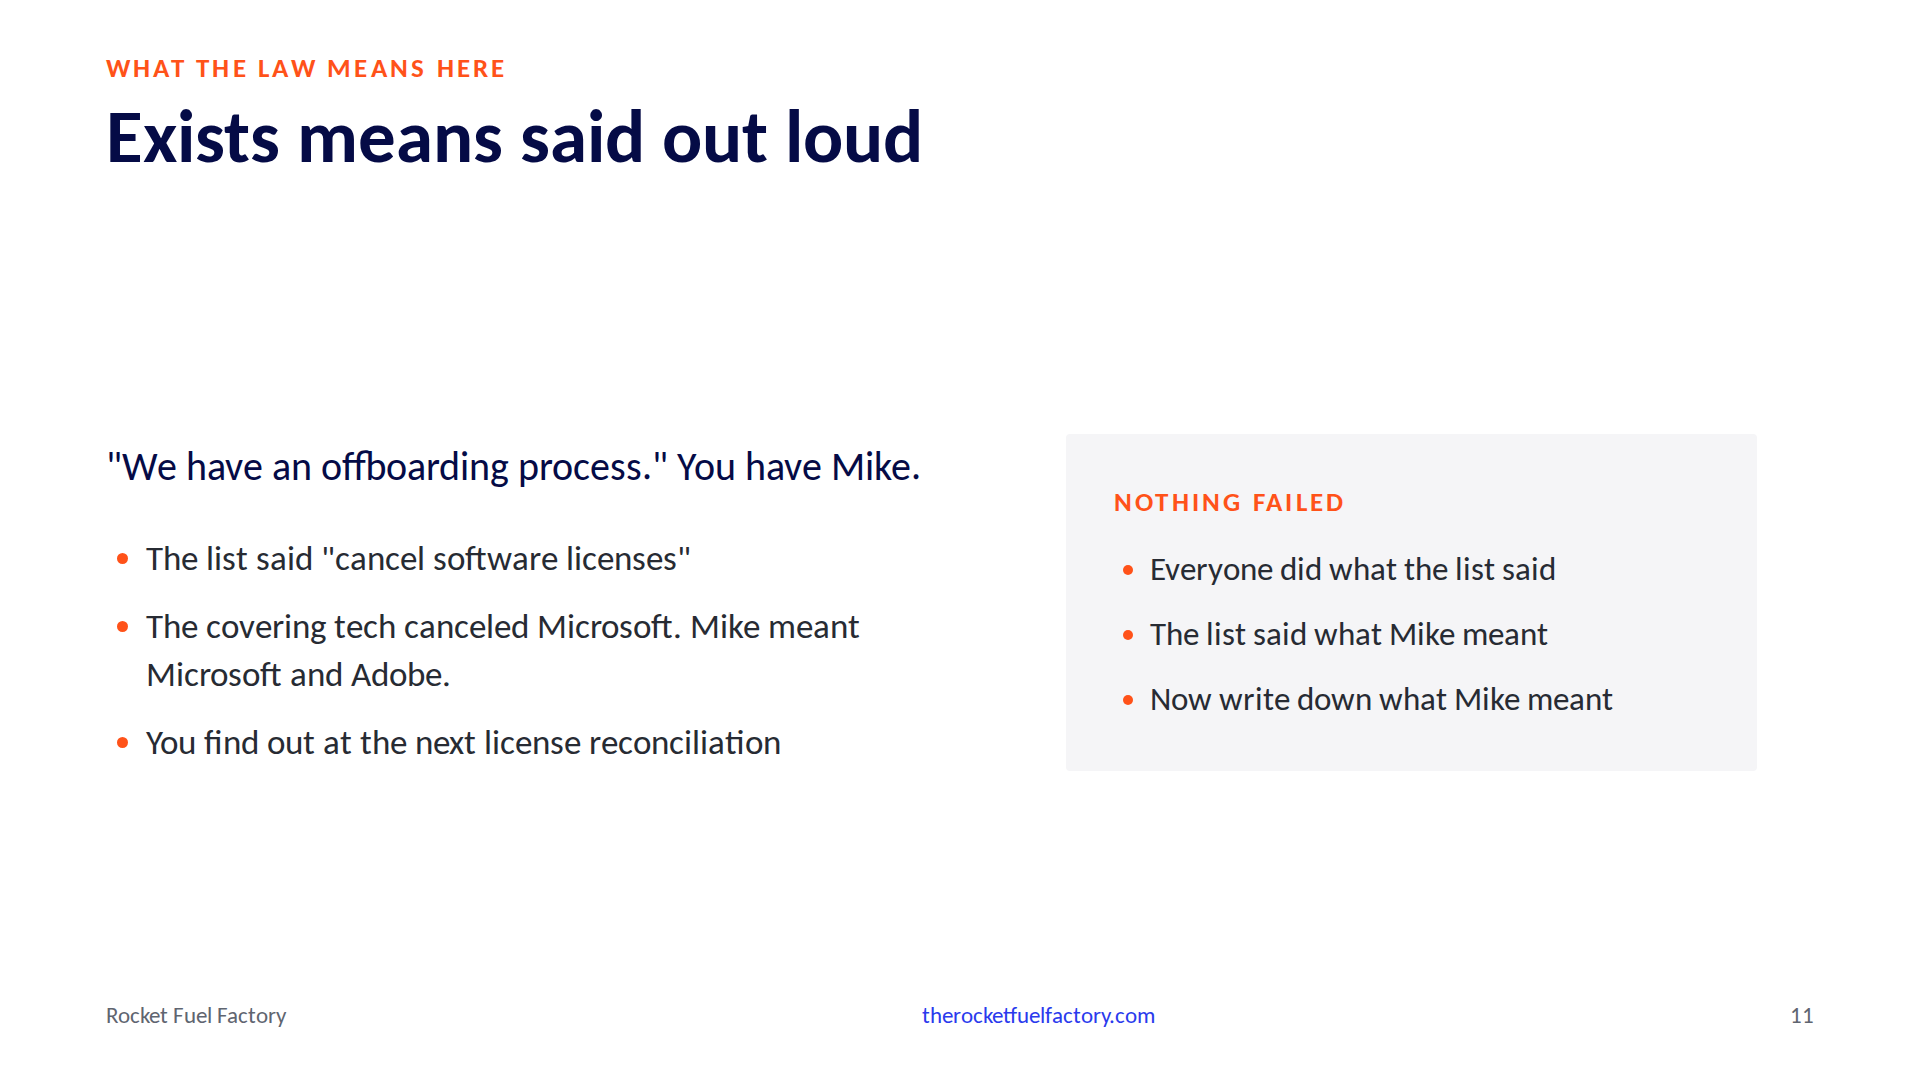
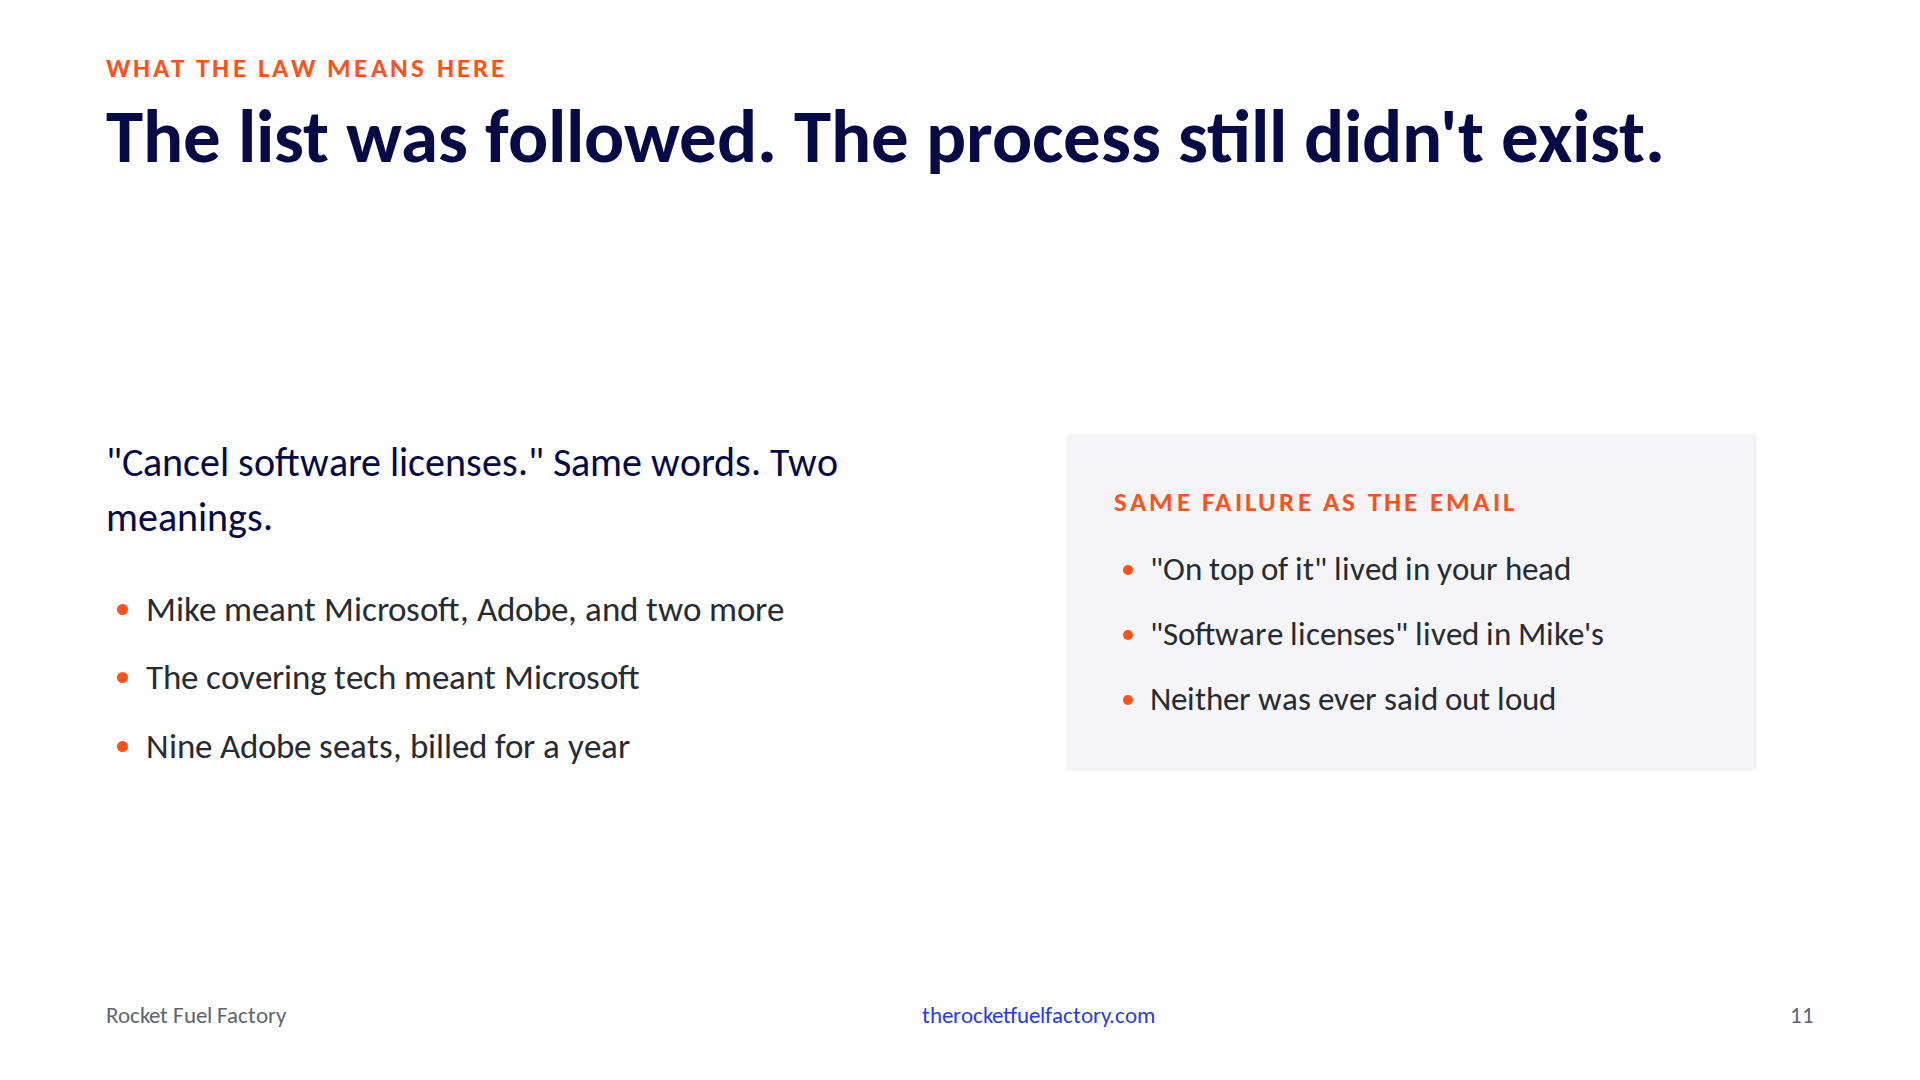
Slide 11: the list was followed, the process still didn't exist; card ties it to the email

diff --git a/src/data/notes.js b/src/data/notes.js
@@ -14,7 +14,7 @@ export const notes = {
   'demo-strong': 'Target 8:30. Loud punchline: same tool, same task, the only thing that changed was how you asked. Under 150 words, Dr. Patel named, forwardable. Then the bridge, one breath, before the click. That is communication: hand over the judgment calls, not just the facts. Now take it to something bigger than an email. When you say we onboard new users, what you have is a ticket with the facts. The judgment calls are in someone\'s head. You just saw what happens when you hand that to a machine. Click.',
   'demo-ask': 'Target 5:30. Bridge, said before the click: this is where most people get frustrated and stop. Do not stop, and do not just ask it to try again. Ask it how you should have asked. Show the answer. Five things it wanted up front: who is reading, what on top of it was supposed to mean, whether the Q2 detail was a feature or a liability, tone, any business ask. Then read the punchline off the slide, slowly, and do not editorialize: I put it in, that is a 50/50 guess I should not have made silently. It knows. It just described abdication better than I did. Try this tonight on the last answer that disappointed you.',
   'aharons-law': 'Target 9:30. SLOW. Say the law, credit Aharon, two full seconds of silence. Then: I have been quoting this for years and it means something different every time. Here is what it means today. Click.',
-  'exists-means-said-out-loud': 'Target 10:00. The shop example, no AI in it. You say we have an offboarding process. It is a checklist, and it is Mike\'s. Mike is on vacation. A tech covers an offboarding and follows the list. One line says cancel software licenses. He cancels the Microsoft licenses, because that is what software licenses means to him. A year later someone reconciles the bill and finds nine former employees still holding Adobe seats. Say Adobe and let the room groan, do not pile on. Nobody skipped a step. The line was on the list. It said cancel software licenses, and to Mike that meant Microsoft, Adobe, and the two other tools that client has that you have forgotten about, because Mike set them up. The list said what Mike meant. It did not say what Mike knew. That is what does not exist means, and it is the same failure as we are on top of it twenty minutes ago: a phrase that carried a full definition in the writer\'s head and a smaller one in the reader\'s. Card: nothing failed. Everyone did what the list said. Now the automation version: try to build this and the first thing the builder asks is, which licenses? That question is the process being born. It never got asked while Mike was the one doing it. Callback to Dawn and Dave: that is margin leaking through a process you thought you had. Bridge out: true of every one of the six I am about to show you, and it is why most shops automate the wrong ones. Click.',
+  'exists-means-said-out-loud': 'Target 10:00. The shop example, no AI in it. Title first, then the story. You say we have an offboarding process. It is a checklist, and it is Mike\'s. Mike is on vacation. A tech covers an offboarding and follows the list. One line says cancel software licenses. He cancels Microsoft, because that is what software licenses means to him. A year later someone reconciles the bill and finds nine former employees still holding Adobe seats. Say Adobe and let the room groan, do not pile on. Nobody skipped a step. The line was on the list. To Mike it meant Microsoft, Adobe, and the two other tools that client has that you have forgotten about, because Mike set them up. The list said what Mike meant. It did not say what Mike knew. Then the card: this is the email again. On top of it had a full definition in your head and a smaller one in the machine\'s. Software licenses had a full definition in Mike\'s head and a smaller one in the covering tech\'s. Neither was ever said out loud, so neither existed anywhere but in one person. That is what the law means today. Then the automation version, one sentence: try to build this and the first thing the builder asks is which licenses, and that question is the process being born. Callback to Dawn and Dave: that is margin leaking through a process you thought you had. Bridge out: true of every one of the six I am about to show you, and it is why most shops automate the wrong ones. Click.',
   'the-wrong-things': 'Target 12:00. The one that bristles. Some people in the room sell auto-replies and templated QBRs. Say it anyway: that is automating the customer away. Automate the automaton instead. Line to land: automate to give time back to the customer, not to hide from them.',
   'where-delivery-leaks': 'Target 14:00. SLOW. Read all six. Each description is who the process is for, not what it saves you. Every one of these runs today on somebody filling in the blanks. Say: pick one. This is what Table 3 works from at 4:15.',
   'divider-where-ai-belongs': 'Target 16:00. Transition. Speed is what these machines give you unconditionally. It exposes bad instructions instantly and executes them instantly. Fast is only a gift once you have said what good looks like.',

diff --git a/src/components/slides/011-ExistsMeansSaidOutLoud.jsx b/src/components/slides/011-ExistsMeansSaidOutLoud.jsx
@@ -1,24 +1,25 @@
 import TwoColumnSlide from '../layouts/TwoColumnSlide'
 
 // What Aharon's law means in this talk, shown on a shop, not on a prompt.
+// The list was complete and followed; the meaning of one line was not.
 export default function ExistsMeansSaidOutLoud({ slideNumber }) {
   return (
     <TwoColumnSlide
       eyebrow="What the law means here"
-      title="Exists means said out loud"
+      title="The list was followed. The process still didn't exist."
       accent="orange"
       slideNumber={slideNumber}
-      paragraph='"We have an offboarding process." You have Mike.'
+      paragraph='"Cancel software licenses." Same words. Two meanings.'
       points={[
-        'The list said "cancel software licenses"',
-        'The covering tech canceled Microsoft. Mike meant Microsoft and Adobe.',
-        'You find out at the next license reconciliation',
+        'Mike meant Microsoft, Adobe, and two more',
+        'The covering tech meant Microsoft',
+        'Nine Adobe seats, billed for a year',
       ]}
-      cardTitle="Nothing failed"
+      cardTitle="Same failure as the email"
       cardItems={[
-        'Everyone did what the list said',
-        'The list said what Mike meant',
-        'Now write down what Mike meant',
+        '"On top of it" lived in your head',
+        '"Software licenses" lived in Mike\'s',
+        'Neither was ever said out loud',
       ]}
     />
   )

diff --git a/docs/OUTLINE.md b/docs/OUTLINE.md
@@ -45,7 +45,7 @@ Closing line: If you can't write the rule, you can't hire your way out of it eit
 9. Forwardable without edits (full output). Under 150 words, Dr. Patel named. Loud: same tool, same task, the only thing that changed was how you asked. Bridge to Aharon, spoken: that is communication, hand over the judgment calls, not just the facts. Now take it to something bigger than an email. When you say we onboard new users, what you have is a ticket with the facts; the judgment calls are in someone's head. You just saw what happens when you hand that to a machine.
 
 10. Aharon's first law (pull statement). SLOW. You can't automate a process that doesn't exist. Aharon Chernin, Rewst. The meaning here: exists means has been said out loud. The law is not about the shop with no process; it is about the shop that thinks it has one and actually has a person who knows what the owner meant. The first automation attempt is the first receiver that cannot nod and fill in the blanks, which is why it is worth doing even if it never ships. Nothing failed; you found out cheaply. Then click to the offboarding example, which is where the meaning lands on a shop instead of a prompt.
-11. Exists means said out loud (two-column, orange). The shop example, no AI in it. "We have an offboarding process." You have Mike. The list said "cancel software licenses." The covering tech canceled Microsoft; Mike meant Microsoft, Adobe, and the two tools you forgot. Found at the next license reconciliation: nine ex-employees holding Adobe seats for a year. Nobody skipped a step; the line was there, the meaning was not. Same failure as "on top of it": a phrase with a full definition in the writer's head and a smaller one in the reader's. Card: nothing failed, everyone did what the list said, the list said what Mike meant, now write down what Mike meant. Automation version: the builder asks "which licenses?" and that question is the process being born. Callback to the Sizers on margin. Bridge out: true of every one of the six, and why most shops automate the wrong ones.
+11. The list was followed. The process still didn't exist. (two-column, orange) The shop example, no AI in it. "We have an offboarding process." You have Mike. The list said "cancel software licenses." The covering tech canceled Microsoft; Mike meant Microsoft, Adobe, and the two tools you forgot. Found at the next license reconciliation: nine ex-employees holding Adobe seats for a year. Nobody skipped a step; the line was there, the meaning was not. Same failure as "on top of it": a phrase with a full definition in the writer's head and a smaller one in the reader's. Card: nothing failed, everyone did what the list said, the list said what Mike meant, now write down what Mike meant. Automation version: the builder asks "which licenses?" and that question is the process being born. Callback to the Sizers on margin. Bridge out: true of every one of the six, and why most shops automate the wrong ones.
 
 12. Most MSPs automate the wrong things (comparison, orange). Automating the customer away: ticket auto-replies, templated QBRs, onboarding nobody attends. Automating the automaton: reading one screen and typing into another, checking the same thing every morning, chasing the same approval. Line: automate to give time back to the customer, not to hide from them.
 13. Six processes, one sentence each (agenda, orange). SLOW. Onboarding so the client's first day works; offboarding so nothing is left open; alert triage so a human only sees what needs one; access requests so the identity check happens; status updates so they hear it from you first; license reconciliation so you stop paying for ghosts. Pick one. Table 3 works from this.
